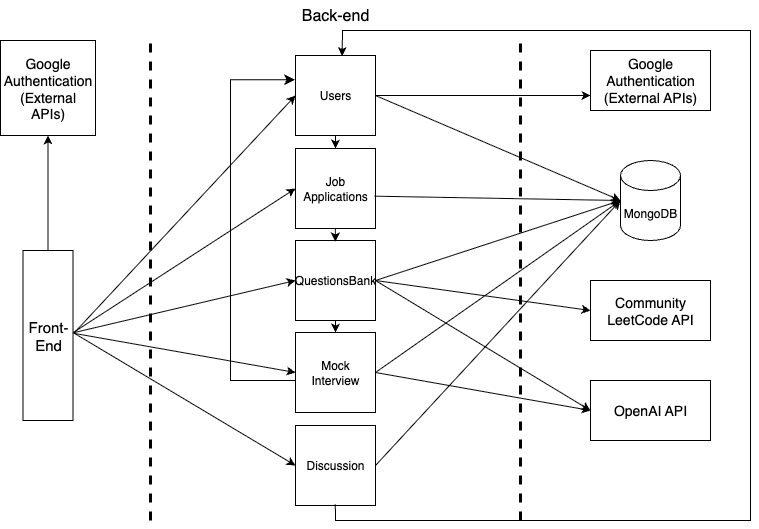
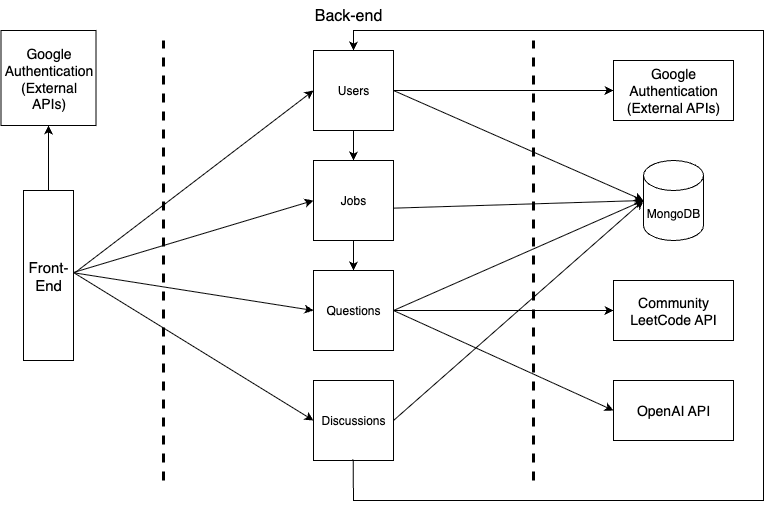
changes logged

diff --git a/documentation/Requirements_and_Design.md b/documentation/Requirements_and_Design.md
@@ -162,19 +162,19 @@ Any user can browse a list of active discussions and find discussions relevant t
 2. User selects a saved job application
 3. User clicks on "Generate Questions" button
 4. System obtains saved job description details
-5. System calls OpenAI API to generate behavioral questions based on job description
-6. System calls Community LeetCode API to gather relevant coding questions based on job details
-7. System processes and stores the generated questions
-8. System displays two options: "Behavioral Questions" and "Technical Questions" buttons
-9. User can click either button to view the respective list of generated questions
+5. System calls OpenAI API and LeetCode API to generate behavioural and technical questions.
+6. System processes and stores the generated questions
+7. System displays two options: "Behavioral Questions" and "Technical Questions" buttons
+8. User can click either button to view the respective list of generated questions
 
 **Failure scenario(s)**:
 
 - 4a. No job description content available:
-    - 4a1. System displays error message: "Unable to generate questions. Job description is missing or incomplete. Please edit the job application and add job description content."
+    - 4a1. System displays error message: "Unable to generate questions. Job description is missing or incomplete."
+    - 4a2. System continues showing the saved job appliaction screen. 
 
 - 5a. OpenAI API failure:
-    - 5a1. System displays error message: "Unable to generate behavioral questions at this time."
+    - 5a1. System displays error message: "Unable to generate behavioral questions at this time. Please try again later."
     - 5a2. System continues to step 6 to attempt coding questions generation.
     - 5a3. No "Behavioural Questions" button will be available in step 8.
 
@@ -183,42 +183,42 @@ Any user can browse a list of active discussions and find discussions relevant t
     - 5b2. System continues to step 6 to attempt coding questions generation.
     - 5b3. No "Behavioural Questions" button will be available in step 8.
 
-- 6a. Community LeetCode API failure:
-    - 6a1. System displays error message: "Unable to generate coding questions at this time."
-    - 6a2. No "Technical Questions" button will be available in step 8.
+- 5c. Community LeetCode API failure:
+    - 5c1. System displays error message: "Unable to generate coding questions at this time."
+    - 5c2. No "Technical Questions" button will be available in step 8.
 
-- 6b. LeetCode API returns no coding questions:
-    - 6b1. System displays warning: "No relevant coding questions found for this job type."
-    - 6b2. No "Technical Questions" button will be available in step 8.
+- 5d. LeetCode API returns no coding questions:
+    - 5d1. System displays warning: "No relevant coding questions found for this job type."
+    - 5d2. No "Technical Questions" button will be available in step 8.
     
-- 7a. Question processing failure:
-    - 7a1. System displays error message: "Questions generated but could not be processed. Please try again."
+- 6a. Question processing failure:
+    - 6a1. System displays error message: "Questions generated but could not be processed. Please try again later."
 
 
 
 
 <a name="uc2"></a>
 
-#### Use Case 2: Solve Technical Questions  
+#### Use Case 2: Solve a Technical Question  
 
-**Description**: User accesses and solves technical coding questions by being redirected to external coding platforms, then marks questions as complete to track progress.
+**Description**: User accesses and solves a technical coding question by being redirected to external coding platforms, then user can mark the question as complete to track progress.
 
 **Primary actor(s)**: User  
 
-**Secondary actor(s)**: External Coding Platforms (LeetCode, HackerRank)  
-
-**Preconditions:**  
+**Preconditions:** 
+- User is authenticated and logged in 
 - User has generated technical questions for a job application
 - Technical questions list is displayed to the user
 
 **Post-conditions:**  
 - User is redirected to external coding platform to solve the problem
+- User can return back to the app and mark the question as complete
 
 **Main success scenario**:  
 1. User navigates to the list of technical questions for a selected job application
-2. User clicks on a specific technical question
+2. User clicks to solve a specific technical question
 3. System retrieves the stored problem URL for the selected question
-4. System opens the external coding platform URL in a new browser tab/window
+4. System opens the external coding platform URL in a browser tab/window
 5. User solves the problem on the external platform
 
 **Failure scenario(s)**:  
@@ -232,9 +232,6 @@ Any user can browse a list of active discussions and find discussions relevant t
     - 3a1. System displays error message: "Problem link not available for this question."
     - 3a2. User returns to questions list
 
-- 4a. External coding platform is unavailable:
-    - 4a1. System displays error message: "The coding platform is currently unavailable. Please try again later."
-
 - 4b. Browser fails to open new tab:
     - 4b1. System displays error message: "Unable to redirect. Please copy the link and open manually."
     - 4b2. System provides clickable link as fallback
@@ -243,9 +240,9 @@ Any user can browse a list of active discussions and find discussions relevant t
 
 <a name="uc3"></a>
 
-#### Use Case 3: Start Mock Interview Session  
+#### Use Case 3: Start Mock Interview 
 
-**Description**: User initiates a mock interview session for behavioral questions, progressing through questions with AI-powered feedback and performance tracking.
+**Description**: User initiates a mock interview session for the generated behavioral questions, progressing through questions with AI-powered feedback and performance tracking.
 
 **Primary actor(s)**: User  
 
@@ -319,11 +316,10 @@ Any user can browse a list of active discussions and find discussions relevant t
 3. User clicks on "Find Similar Jobs" button
 4. System retrieves saved job title, key requirements, and location from the selected application
 5. System searches external job sites for similar positions
-6. System calculates distance between each found job location and the original job's location
-7. System filters results for opportunities near the original job location or remote positions
-8. System displays a curated list of similar job postings with location information relative to original job
-9. User taps on a job posting to view full details
-10. User can choose to save the job posting to their saved job applications
+6. System filters results for opportunities near the original job location or remote positions
+7. System displays a curated list of similar job postings with location information relative to original job
+8. User taps on redirect button to be redirected to job posting's website
+9. User can choose to save the job posting to their saved job applications
 
 **Failure scenario(s)**:
 - 4b. Original job location is unavailable:
@@ -334,16 +330,13 @@ Any user can browse a list of active discussions and find discussions relevant t
     - 5a1. System displays error message: "No similar jobs found. Check back later"
     - 5a2. The use case terminates unsuccessfully and the system just shows the current saved job description screen.
 
-- 6a. Distance calculation fails:
-    - 6a1. System displays warning: "Unable to calculate distances from original job location. Showing all results."
+- 7a. No similar jobs found after location filtration:
+    - 7a1. System displays message: "No similar job postings found near the original job location. Check back later."
+    - 7a2. The use case terminates unsuccessfully and the system just shows the current saved job description screen.
 
-- 8a. No similar jobs found after location filtration:
-    - 8a1. System displays message: "No similar job postings found near the original job location. Check back later."
-    - 8a2. The use case terminates unsuccessfully and the system just shows the current saved job description screen.
-
-- 10a. Duplicate job posting detected:
-    - 10a1. System displays warning: "This job posting is already in your applications."
-    - 10a2. User can continue browsing other results
+- 9a. Duplicate job posting detected:
+    - 9a1. System displays warning: "This job posting is already in your applications."
+    - 9a2. User can continue browsing other results
 
 ----
 <a name="uc5"></a>
@@ -374,15 +367,6 @@ Any user can browse a list of active discussions and find discussions relevant t
 9. User can begin posting messages in the discussion
 
 **Failure scenario(s)**:  
-- 1a. Discussions section fails to load:
-    - 1a1. System displays error message: "Unable to load discussions. Please check your connection and try again."
-
-- 2a. Create Discussion button is unresponsive:
-    - 2a1. System displays error message: "Service temporarily unavailable. Please try again."
-
-- 3a. Discussion creation form fails to display:
-    - 3a1. System displays error message: "Unable to load discussion form. Please refresh and try again."
-
 - 4a. User submits empty discussion topic:
     - 4a1. System displays validation error: "Discussion topic is required. Please enter a topic title."
     - 4a2. User remains on creation form to provide input
@@ -394,20 +378,6 @@ Any user can browse a list of active discussions and find discussions relevant t
 - 5a. Initial description exceeds character limit:
     - 5a1. System displays validation error: "Description is too long. Please keep it under 500 characters."
     - 5a2. User can edit the description
-
-- 6a. Create Discussion submission fails:
-    - 6a1. System displays error message: "Unable to submit discussion. Please try again."
-
-- 7a. System storage fails:
-    - 9a1. System displays error message: "Unable to save discussion. Please try again."
-    - 9a2. User can retry creation
-
-- 8a. Redirection to discussion page fails:
-    - 10a1. System displays message: "Discussion created successfully but unable to redirect. Please check your discussions list."
-    - 10a2. System provides manual link to the new discussion
-
-- 9a. Initial message posting interface fails to load:
-    - 11a1. System displays warning: "Discussion created but messaging interface unavailable. Please refresh to start posting."
 
 ---
 
@@ -451,7 +421,7 @@ Any user can browse a list of active discussions and find discussions relevant t
    ### 4.1. Main Components
    ###
 
-**Job Applications**
+**Jobs**
 - **Purpose:** Handle job application management - adding, storing, viewing, and organizing user's saved job postings
 - **Rationale:** Centralizes all job-related data operations and provides foundation for question generation
 
@@ -459,15 +429,11 @@ Any user can browse a list of active discussions and find discussions relevant t
 - **Purpose:** Manage user authentication, profiles, and user-specific data access
 - **Rationale:** Handles all user-related operations and maintains user session state
 
-**Question Bank**
+**Questions**
 - **Purpose:** Generate, store, and retrieve technical and behavioral interview questions for specific job applications
 - **Rationale:** Encapsulates question generation logic and manages question lifecycle
 
-**Mock Interview**
-- **Purpose:** Conduct mock interview sessions, collect user responses, and provide AI-generated feedback
-- **Rationale:** Manages interview flow and integrates with OpenAI for response analysis
-
-**Discussion**
+**Discussions**
 - **Purpose:** Handle discussion room creation, management, and user participation
 - **Rationale:** Manages community features separate from individual practice components
                 
